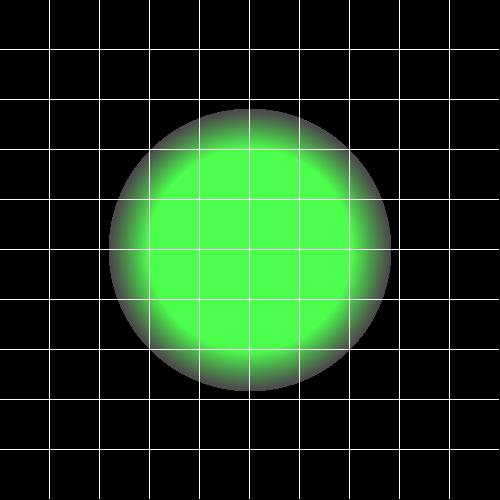
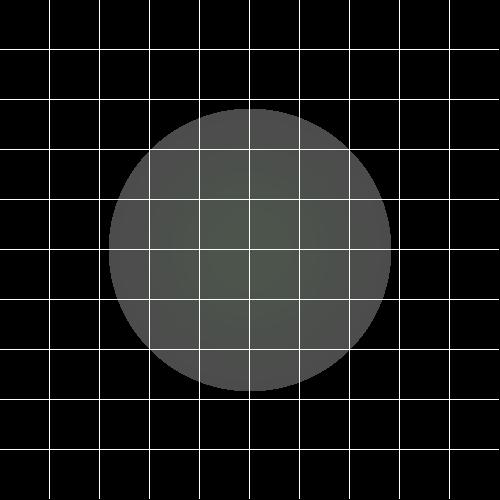
update

Changed region(s): [[0.21, 0.21, 0.78, 0.78]]

diff --git a/src/unitTests/RenderTest.java b/src/unitTests/RenderTest.java
@@ -37,9 +37,9 @@ public class RenderTest {
 		ImageWriter imageWriter = new ImageWriter("test0", 500, 500, 500, 500);
 		Render render = new Render(imageWriter, scene);
 		
-		/*render.renderImage();
+		render.renderImage();
 		render.printGrid(50);
-		render.writeToimage();*/
+		render.writeToimage();
 	}
 
 	@Test
@@ -53,7 +53,7 @@ public class RenderTest {
 		scene.set_ambientLight(new AmbientLight(new Color (255,255,255),0.3));
 		scene.get_lights().add(new DirectionalLight(new Vector(10,1,1),new Color(0,0,255)));
 		
-		geometries.addGeometry(new Sphere(50, new Point3D(0, 0, 150),new Color(0,0,0),new Material (0.03,1,1)));
+		geometries.addGeometry(new Sphere(50, new Point3D(0, 0, 150),new Color(0,0,0),new Material (3,1,1)));
 		
 		ImageWriter imageWriter = new ImageWriter("direction", 500, 500, 500, 500);
 		Render render = new Render(imageWriter, scene);

diff --git a/src/elements/PointLight.java b/src/elements/PointLight.java
@@ -16,7 +16,7 @@ import primitives.*;
 public class PointLight extends Light implements LightSource {
 	protected Point3D _position;
 
-	protected double _Kc = 1;
+	protected double _Kc;
 	protected double _Kl;
 	protected double _Kq;
 
